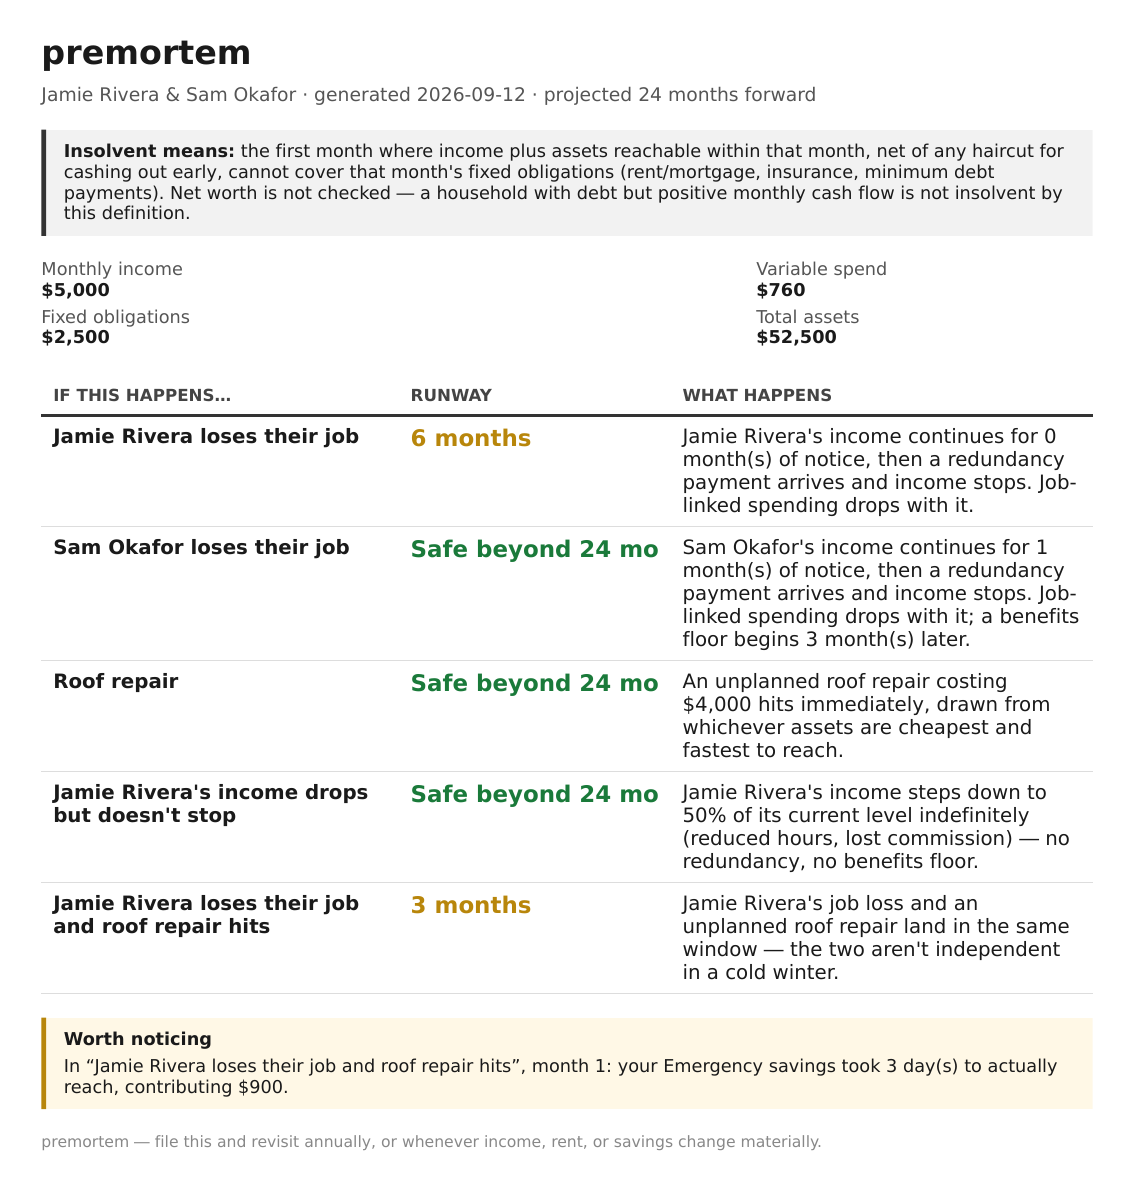
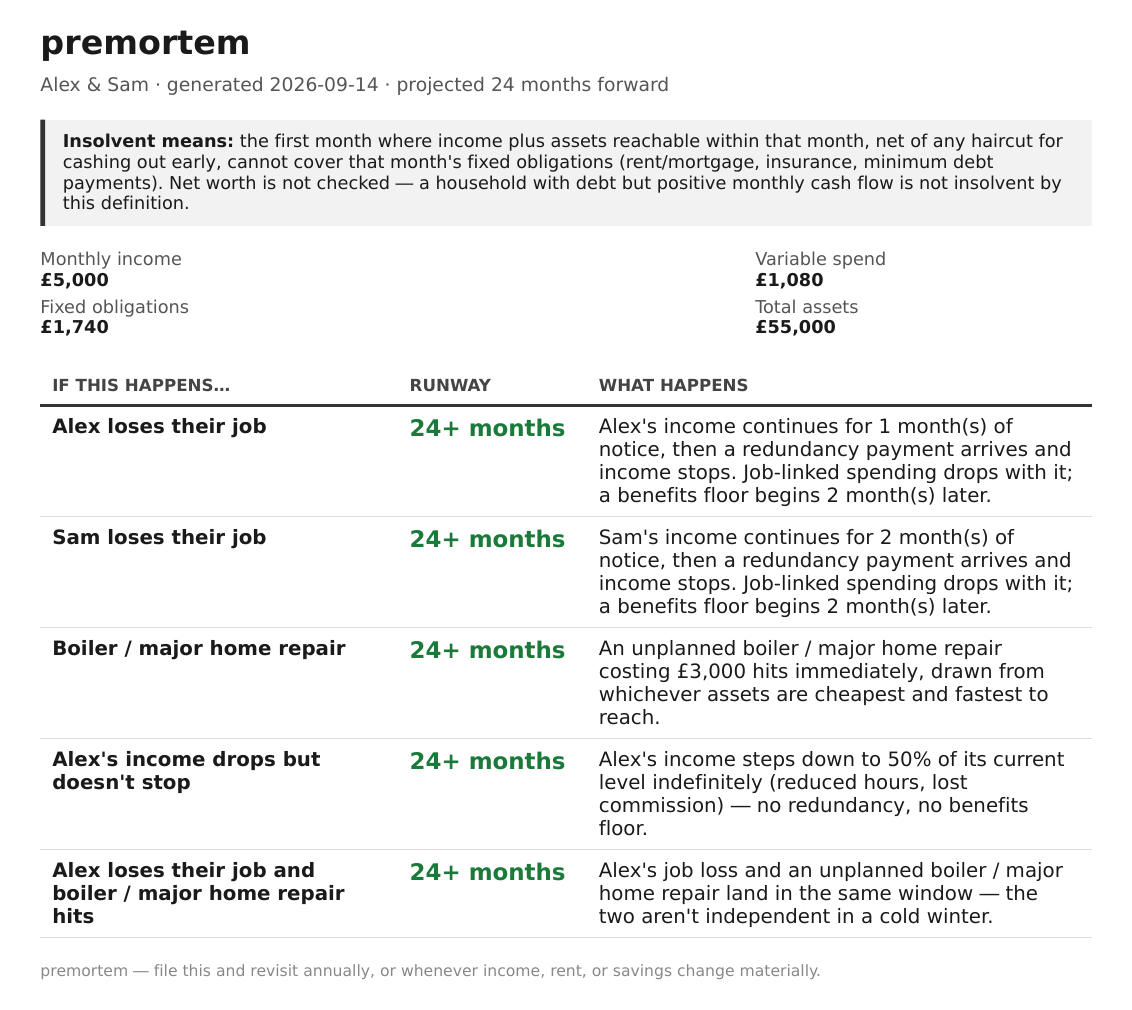
Round wizard amounts at entry; run the PDF test in CI; refresh the screenshot
elicit: parse every money/ratio input through one parse_amount() that
rounds to the precision model.to_toml() writes (cents / four places), so
the number on screen is exactly the number in the saved file. It also
rejects inf/nan, which Decimal() alone happily accepts.

CI: install the same Pango/Cairo packages install.sh does, so the PDF
smoke test exercises the real output path instead of skipping.

docs: re-render sample-report.png from tests/fixtures/sample_household.toml
(the old one still showed "Safe beyond 24 mo").

Claude-Session: https://claude.ai/code/session_01Pj59RJBStK8jUPsa5xAq9M

diff --git a/elicit/screens.py b/elicit/screens.py
@@ -11,6 +11,21 @@ from textual.containers import Vertical, Horizontal, VerticalScroll
 from textual.screen import Screen
 from textual.widgets import Button, Checkbox, Footer, Input, Label, Select, Static
 
+from model import MONEY_PLACES, RATIO_PLACES
+
+# Fields that are a fraction (0-1) rather than an amount of money.
+RATIO_FIELDS = frozenset({"haircut_pct", "income_reduction_factor"})
+
+
+def parse_amount(raw: str, field: str) -> Decimal:
+    """A typed number, rounded to what the saved file can hold (see model.to_toml),
+    so the value on screen is exactly the value that ends up in the TOML.
+    Raises InvalidOperation for anything that isn't a plain finite number."""
+    value = Decimal(raw.strip() or "0")
+    if not value.is_finite():
+        raise InvalidOperation(f"{field}: not a plain number: {raw!r}")
+    return value.quantize(RATIO_PLACES if field in RATIO_FIELDS else MONEY_PLACES)
+
 
 class WelcomeScreen(Screen[None]):
     def compose(self) -> ComposeResult:
@@ -76,8 +91,8 @@ class PersonScreen(Screen[dict]):
             result = {
                 "name": self.query_one("#name", Input).value.strip() or self.default_name,
                 "notice_period_months": int(self.query_one("#notice_period_months", Input).value),
-                "redundancy_lump_sum": Decimal(self.query_one("#redundancy_lump_sum", Input).value),
-                "benefits_floor_monthly": Decimal(self.query_one("#benefits_floor_monthly", Input).value),
+                "redundancy_lump_sum": parse_amount(self.query_one("#redundancy_lump_sum", Input).value, "redundancy_lump_sum"),
+                "benefits_floor_monthly": parse_amount(self.query_one("#benefits_floor_monthly", Input).value, "benefits_floor_monthly"),
                 "benefits_delay_months": int(self.query_one("#benefits_delay_months", Input).value),
             }
         except (InvalidOperation, ValueError):
@@ -157,7 +172,7 @@ class RepeatingFormScreen(Screen[list]):
                 result[key] = raw
             elif kind == FIELD_DECIMAL:
                 try:
-                    value = Decimal(raw) if raw else Decimal("0")
+                    value = parse_amount(raw, key)
                 except InvalidOperation:
                     self.query_one("#error", Static).update(f"[red]'{label}' needs a plain number.[/red]")
                     return None
@@ -254,9 +269,9 @@ class AssumptionsScreen(Screen[dict]):
             result = {
                 "currency_label": self.query_one("#currency_label", Input).value,
                 "horizon_months": int(self.query_one("#horizon_months", Input).value),
-                "major_expense_amount": Decimal(self.query_one("#major_expense_amount", Input).value),
+                "major_expense_amount": parse_amount(self.query_one("#major_expense_amount", Input).value, "major_expense_amount"),
                 "major_expense_label": self.query_one("#major_expense_label", Input).value,
-                "income_reduction_factor": Decimal(self.query_one("#income_reduction_factor", Input).value),
+                "income_reduction_factor": parse_amount(self.query_one("#income_reduction_factor", Input).value, "income_reduction_factor"),
             }
         except (InvalidOperation, ValueError):
             self.query_one("#error", Static).update("[red]Please enter plain numbers.[/red]")

diff --git a/tests/test_elicit.py b/tests/test_elicit.py
@@ -298,6 +298,46 @@ async def _check_asset_form_rejects_duplicate_name() -> None:
         assert len(pilot.app.screen.items) == 1
 
 
+async def _check_asset_form_rounds_amounts_to_saved_precision() -> None:
+    """What you type is what gets saved: amounts are rounded at entry to the
+    precision model.to_toml() writes, so the review screen and the TOML agree."""
+    app = PremortemApp()
+    async with app.run_test(size=(100, 60)) as pilot:
+        await pilot.pause()
+        await pilot.click("#begin")
+        await pilot.pause()
+        await pilot.click("#one")
+        await pilot.pause()
+        await _fill(pilot, {"name": "Solo"})
+        await pilot.click("#continue")               # PersonScreen
+        await pilot.pause()
+        await _fill(pilot, {"field-name": "Salary", "field-owner": "Solo", "field-monthly_amount": "2500"})
+        await pilot.click("#continue")               # Income
+        await pilot.pause()
+        await pilot.click("#continue")               # Fixed: none
+        await pilot.pause()
+        await pilot.click("#continue")               # Variable: none
+        await pilot.pause()
+
+        await _fill(pilot, {
+            "field-name": "ISA",
+            "field-value": "8123.999",
+            "field-access_days": "5",
+            "field-haircut_pct": "0.333333333",
+        })
+        await pilot.click("#add")                    # Assets: add one and stay on the form
+        await pilot.pause()
+
+        assert pilot.app.screen.query_one("#error").render() == ""
+        (item,) = pilot.app.screen.items
+        assert item["value"] == Decimal("8124.00")
+        assert item["haircut_pct"] == Decimal("0.3333")
+
+
+def test_wizard_rounds_amounts_to_saved_precision():
+    asyncio.run(_check_asset_form_rounds_amounts_to_saved_precision())
+
+
 def test_wizard_rejects_duplicate_asset_name():
     asyncio.run(_check_asset_form_rejects_duplicate_name())
 

diff --git a/README.md b/README.md
@@ -14,7 +14,7 @@ It's not a budgeting app, and it doesn't care about your net worth. It asks one 
 
 ![Sample report page, generated from fictional data](docs/sample-report.png)
 
-*(Jamie, Sam, and their finances are entirely made up for this screenshot — this repo never ships or commits real household data.)*
+*(Rendered from `tests/fixtures/sample_household.toml` — Alex, Sam, and their finances are entirely made up; this repo never ships or commits real household data.)*
 
 ## How it works
 
